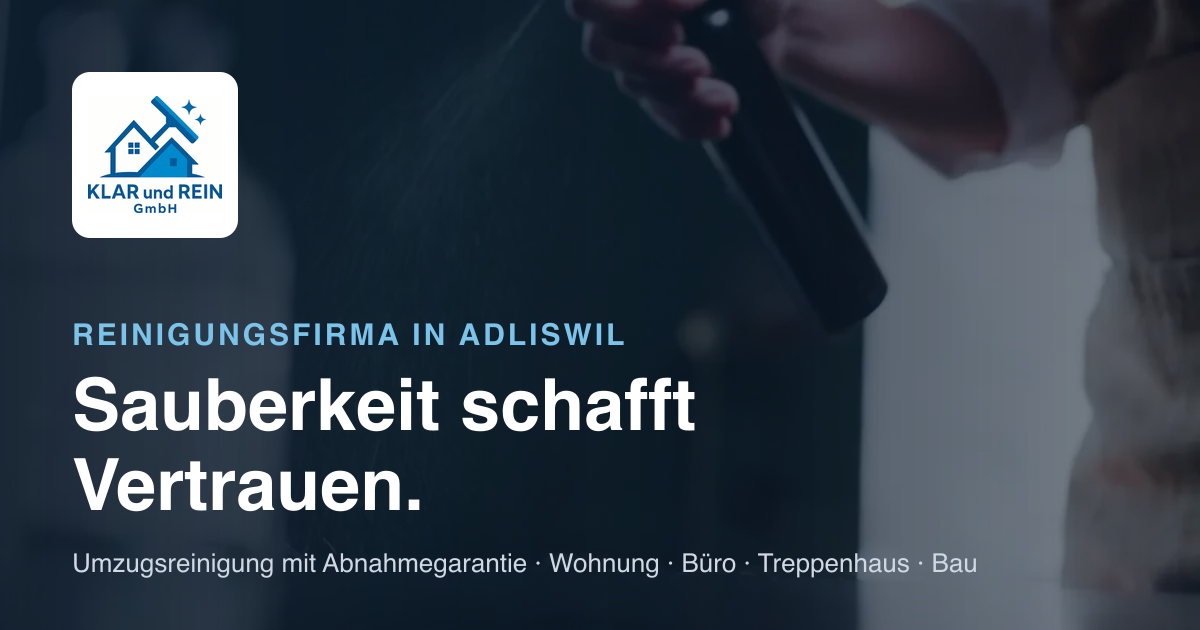
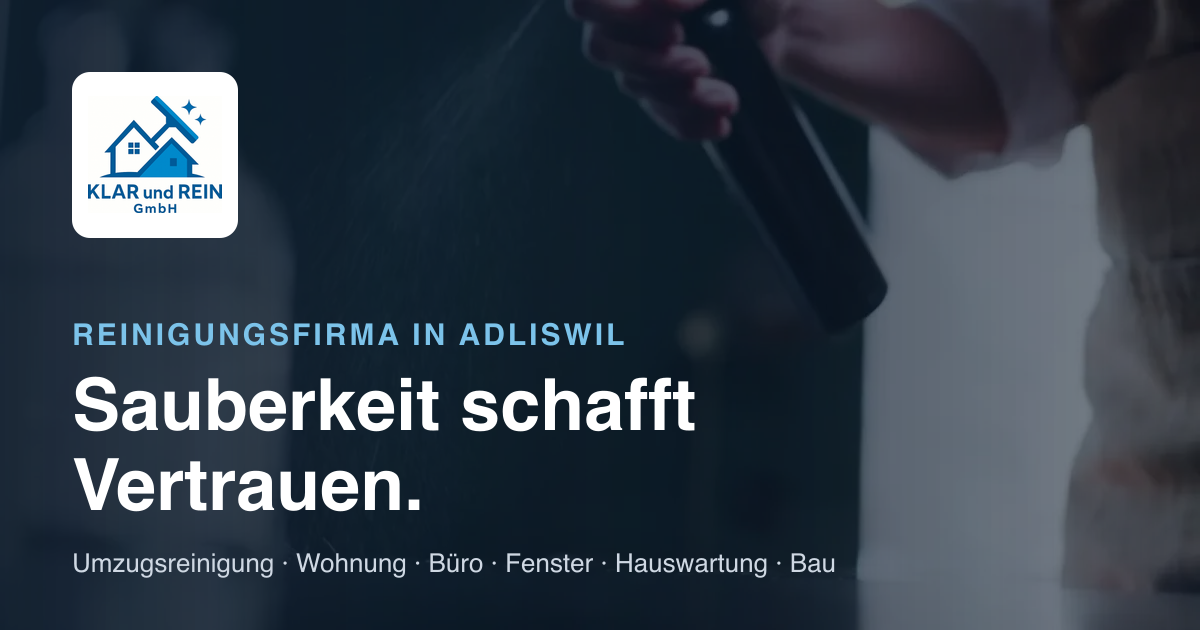
Esmas Antworten: Abnahmegarantie auf Wunsch, Leistungen nach Wahl, Impressum
- Abnahmegarantie überall als «auf Wunsch» (dabei bei der Wohnungsabgabe,
  Nachreinigung vor Ort) – Texte, FAQ, Badges, Meta, Schema, llms.txt, OG-Bild
- Leistungsseiten: «… – Leistungen nach Wahl» + «Weitere Leistungen nach
  Absprache möglich …» (nach Esmas Vorschlag)
- Impressum: Arxhend Hoxha, Geschäftsführer und Inhaber
- Kennzahlen 120+/15 entfernt, ersetzt durch Gründung, Anzahl Leistungen,
  Erreichbarkeit
- Aussage «Reinigungsmittel bringen wir mit» entfernt (je nach Kunde),
  Versprechen «Flexibel nach Absprache»
- README: geklärte Punkte abgehakt

Changed region(s): [[0.2158, 0.8746, 0.8325, 0.9349]]

diff --git a/src/data/site.ts b/src/data/site.ts
@@ -11,7 +11,7 @@ export const company = {
   register: 'Handelsregisteramt des Kantons Zürich',
   founded: 2025,
   // TODO: Name der Geschäftsführung fürs Impressum (solange null, wird die Zeile ausgeblendet)
-  manager: null as string | null,
+  manager: 'Arxhend Hoxha' as string | null,
   email: 'info@klarundrein.ch',
   phone: '076 561 17 79',
   // TODO: bestätigen, dass die Nummer auf WhatsApp erreichbar ist
@@ -81,7 +81,6 @@ export type Service = {
   h1: string
   lead: string
   intro: string[]
-  includesTitle: string
   includes: string[]
   idealFor: string[]
   faqs: Faq[]
@@ -92,21 +91,20 @@ export const services: Service[] = [
     slug: 'umzugsreinigung-adliswil',
     name: 'Umzugsreinigung',
     cardTitle: 'Umzugsreinigung',
-    teaser: 'Endreinigung mit Abnahmegarantie',
+    teaser: 'Endreinigung für die Wohnungsabgabe',
     icon: 'umzug',
-    short: 'Für eine ordentliche und problemlose Wohnungsübergabe. Sorgfältige Reinigung mit Abnahmegarantie.',
+    short: 'Für eine ordentliche und problemlose Wohnungsübergabe. Sorgfältige Reinigung – auf Wunsch mit Abnahmegarantie.',
     image: 'umzug',
     imageAlt: 'Frau packt beim Umzug Kartons in einer hellen Wohnung',
-    metaTitle: 'Umzugsreinigung Adliswil mit Abnahmegarantie | Klar und Rein',
+    metaTitle: 'Umzugsreinigung Adliswil – Abnahmegarantie auf Wunsch | Klar und Rein',
     metaDescription:
-      'Umzugs- und Endreinigung in Adliswil, Langnau, Kilchberg, Thalwil und Zürich – gründlich und mit Abnahmegarantie. Jetzt kostenlose Offerte anfragen.',
-    h1: 'Umzugsreinigung in Adliswil – mit Abnahmegarantie',
-    lead: 'Sie ziehen um, wir kümmern uns um die Endreinigung. So geben Sie Ihre Wohnung ohne Stress und ohne Nachreinigung an die Verwaltung zurück.',
+      'Umzugs- und Endreinigung in Adliswil, Langnau, Kilchberg, Thalwil und Zürich – gründlich, auf Wunsch mit Abnahmegarantie. Jetzt kostenlose Offerte anfragen.',
+    h1: 'Umzugsreinigung in Adliswil – Abnahmegarantie auf Wunsch',
+    lead: 'Sie ziehen um, wir kümmern uns um die Endreinigung. So geben Sie Ihre Wohnung ohne Stress an die Verwaltung zurück.',
     intro: [
       'Bei der Wohnungsabgabe schaut die Verwaltung genau hin: Backofen, Dampfabzug, Fensterfalze, Storen, Kalk im Bad. Genau dort setzen wir an. Wir reinigen Ihre Wohnung oder Ihr Haus nach der in der Schweiz üblichen Abgabe-Checkliste.',
-      'Mit unserer Abnahmegarantie sind Sie auf der sicheren Seite: Beanstandet die Verwaltung bei der Übergabe etwas an der Reinigung, reinigen wir kostenlos nach.',
+      'Auf Wunsch bieten wir eine Abnahmegarantie: Wir sind bei der Wohnungsabgabe dabei und reinigen direkt vor Ort nach, falls die Verwaltung etwas beanstandet.',
     ],
-    includesTitle: 'Das ist in der Umzugsreinigung inbegriffen',
     includes: [
       'Küche komplett: Backofen, Bleche, Kochfeld, Dampfabzug inkl. Filter, Kühlschrank, Schränke innen und aussen',
       'Bad und WC: Lavabo, Dusche, Badewanne, WC, Armaturen und Plättli – inklusive Entkalken',
@@ -125,7 +123,7 @@ export const services: Service[] = [
       },
       {
         q: 'Was bedeutet Abnahmegarantie?',
-        a: 'Beanstandet die Verwaltung bei der Wohnungsabgabe etwas an der Reinigung, reinigen wir die bemängelten Stellen kostenlos nach – bis die Wohnung abgenommen ist.',
+        a: 'Auf Wunsch sind wir bei der Wohnungsabgabe mit der Verwaltung vor Ort. Beanstandet sie etwas an der Reinigung, reinigen wir die Stellen direkt nach – bis die Wohnung abgenommen ist. Ob Sie die Abnahmegarantie möchten, halten wir in der Offerte fest.',
       },
       {
         q: 'Muss ich bei der Wohnungsabgabe dabei sein?',
@@ -155,7 +153,6 @@ export const services: Service[] = [
       'Ob wöchentlich, alle zwei Wochen oder einmalig vor einem besonderen Anlass: Wir passen die Wohnungsreinigung Ihrem Alltag an. Sie sagen uns, worauf es Ihnen ankommt, wir kümmern uns darum.',
       'Für Wohnungen, die eine Extraportion Aufmerksamkeit brauchen – etwa nach dem Winter, nach einer längeren Abwesenheit oder vor einem Einzug – bieten wir eine Tiefenreinigung an, bei der wir auch die Stellen reinigen, die im Alltag liegen bleiben.',
     ],
-    includesTitle: 'Das gehört zur Wohnungsreinigung',
     includes: [
       'Staubsaugen und feucht Aufnehmen aller Böden',
       'Küche: Arbeitsflächen, Kochfeld, Fronten, Spüle und Geräte aussen',
@@ -198,7 +195,6 @@ export const services: Service[] = [
       'Wir übernehmen die Unterhaltsreinigung von Büros, Praxen, Ateliers und kleineren Gewerberäumen in Adliswil und im ganzen Kanton Zürich. Den Umfang und die Intervalle legen wir gemeinsam mit Ihnen fest.',
       'Auf Wunsch reinigen wir früh morgens, abends oder am Wochenende – so läuft Ihr Betrieb ungestört weiter. Sie haben eine feste Ansprechperson und klare Absprachen.',
     ],
-    includesTitle: 'Das gehört zur Büroreinigung',
     includes: [
       'Arbeitsplätze, Tische und Ablagen',
       'Böden saugen und feucht reinigen',
@@ -241,7 +237,6 @@ export const services: Service[] = [
       'Saubere Fenster machen jeden Raum heller. Wir reinigen Glasflächen streifenfrei und vergessen dabei auch Rahmen, Falze und Simse nicht – dort, wo sich Staub und Schmutz am liebsten sammeln.',
       'Ob einmalig im Frühling, vor einem Anlass oder regelmässig im Abo: Wir reinigen Fenster in Wohnungen, Häusern, Büros und Ladenlokalen in Adliswil und im ganzen Kanton Zürich.',
     ],
-    includesTitle: 'Das gehört zur Fensterreinigung',
     includes: [
       'Glasflächen innen und aussen streifenfrei',
       'Fensterrahmen, Falze und Dichtungen',
@@ -284,7 +279,6 @@ export const services: Service[] = [
       'Bei der Unterhaltsreinigung legen wir gemeinsam fest, was wie oft gereinigt wird – täglich, wöchentlich oder in einem anderen Rhythmus. So bleiben Büros, Praxen, Geschäfte und Gemeinschaftsflächen dauerhaft gepflegt.',
       'Sie haben eine feste Ansprechperson, klare Absprachen und auf Wunsch Reinigungszeiten ausserhalb Ihrer Öffnungs- oder Bürozeiten.',
     ],
-    includesTitle: 'Das gehört zur Unterhaltsreinigung',
     includes: [
       'Individueller Reinigungsplan mit festen Intervallen',
       'Böden saugen und feucht reinigen',
@@ -323,7 +317,6 @@ export const services: Service[] = [
       'Für Verwaltungen, Eigentümergemeinschaften und private Vermieter übernehmen wir die regelmässige Reinigung von Treppenhäusern und Allgemeinflächen in Adliswil und Umgebung.',
       'Sie bestimmen das Intervall – wöchentlich, alle zwei Wochen oder monatlich. Wir sorgen dafür, dass sich Mieterinnen, Mieter und Besuch wohlfühlen.',
     ],
-    includesTitle: 'Das gehört zur Treppenhausreinigung',
     includes: [
       'Treppen und Podeste saugen und feucht reinigen',
       'Geländer, Handläufe und Fenstersimse',
@@ -362,7 +355,6 @@ export const services: Service[] = [
       'Für Verwaltungen, Eigentümergemeinschaften und private Vermieter übernehmen wir die Hauswartung von Mehrfamilienhäusern und Geschäftsliegenschaften in Adliswil und Umgebung.',
       'Den Umfang stellen wir individuell zusammen – von der regelmässigen Treppenhausreinigung über die Umgebungspflege bis zum Winterdienst. So bleibt Ihre Liegenschaft das ganze Jahr gepflegt.',
     ],
-    includesTitle: 'Das kann zur Hauswartung gehören',
     includes: [
       'Reinigung von Treppenhaus, Lift, Keller und Waschküche',
       'Umgebungspflege: Rasen, Hecken, Laub und Wege',
@@ -401,7 +393,6 @@ export const services: Service[] = [
       'Ob Neubau, Umbau, Renovation oder neue Küche: Wir reinigen nach den Handwerkern, damit Sie oder Ihre Mieterschaft direkt einziehen können.',
       'Wir arbeiten mit Bauherrschaften, Handwerksbetrieben und Privatpersonen zusammen und stimmen den Termin auf den Bauablauf ab.',
     ],
-    includesTitle: 'Das gehört zur Baureinigung',
     includes: [
       'Grobreinigung: Bauschutt-Reste, Staub und Verpackungsmaterial entfernen',
       'Feinreinigung aller Oberflächen, Schränke und Einbauten',
@@ -440,7 +431,6 @@ export const services: Service[] = [
       'Mit der Zeit setzen sich auf Terrassen, Wegen und Einfahrten Moos, Algen und Schmutz fest. Das sieht nicht nur unschön aus, sondern macht Flächen auch rutschig.',
       'Wir reinigen mit Hochdruck und Flächenreinigern und passen Druck und Verfahren an das Material an – ob Stein, Beton, Platten oder Holz.',
     ],
-    includesTitle: 'Das reinigen wir mit Hochdruck',
     includes: [
       'Terrassen, Sitzplätze und Balkone',
       'Plattenwege, Einfahrten und Vorplätze',
@@ -479,7 +469,6 @@ export const services: Service[] = [
       'Wetter, Verkehr und Feuchtigkeit hinterlassen Spuren: Grauschleier, Algen und Grünbelag lassen Fassaden schnell alt aussehen.',
       'Vor der Reinigung prüfen wir die Fassade und wählen ein schonendes Verfahren – für Putz, Klinker, Holz, Metall oder Glas. So wird das Gebäude sauber, ohne die Oberfläche zu belasten.',
     ],
-    includesTitle: 'Das gehört zur Fassadenreinigung',
     includes: [
       'Besichtigung und Prüfung der Fassade',
       'Entfernen von Algen, Grünbelag und Grauschleier',
@@ -517,11 +506,7 @@ export const generalFaqs: Faq[] = [
   },
   {
     q: 'Was bedeutet Abnahmegarantie bei der Umzugsreinigung?',
-    a: 'Beanstandet die Verwaltung bei der Wohnungsabgabe etwas an der Reinigung, reinigen wir kostenlos nach, bis die Wohnung abgenommen ist.',
-  },
-  {
-    q: 'Bringen Sie Reinigungsmittel und Geräte mit?',
-    a: 'Ja, wir bringen alle nötigen Reinigungsmittel, Geräte und Materialien mit. Sie müssen nichts vorbereiten.',
+    a: 'Die Abnahmegarantie gibt es auf Wunsch: Wir sind bei der Wohnungsabgabe dabei und reinigen direkt nach, falls die Verwaltung etwas beanstandet – bis die Wohnung abgenommen ist.',
   },
   {
     q: 'Wie komme ich zu einer Offerte?',
@@ -529,7 +514,7 @@ export const generalFaqs: Faq[] = [
   },
   {
     q: 'Welche Reinigungen bietet Klar und Rein an?',
-    a: 'Umzugsreinigung mit Abnahmegarantie, Wohnungs- und Tiefenreinigung, Büroreinigung, Fensterreinigung, Unterhaltsreinigung, Treppenhausreinigung, Hauswartung, Baureinigung, Hochdruckreinigung und Fassadenreinigung – für Privat- und Geschäftskunden in Adliswil und im ganzen Kanton Zürich.',
+    a: 'Umzugsreinigung (auf Wunsch mit Abnahmegarantie), Wohnungs- und Tiefenreinigung, Büroreinigung, Fensterreinigung, Unterhaltsreinigung, Treppenhausreinigung, Hauswartung, Baureinigung, Hochdruckreinigung und Fassadenreinigung – für Privat- und Geschäftskunden in Adliswil und im ganzen Kanton Zürich.',
   },
   {
     q: 'Reinigen Sie auch regelmässig für Firmen und Verwaltungen?',
@@ -556,25 +541,19 @@ export const heroCards = [
   },
 ]
 
-/** Kennzahlen der bisherigen Website. TODO: Bedeutung von Esma bestätigen lassen */
-export const stats = [
-  { value: '120+', label: 'Qualitätsdienstleistungen' },
-  { value: '15', label: 'Von vielen vertraut' },
-]
-
 /** Versprechen (ersetzt die Vorlagen-Bewertungen der alten Seite, bis echte Google-Bewertungen da sind) */
 export const promises = [
-  { title: 'Abnahmegarantie', text: 'Bei der Umzugsreinigung reinigen wir kostenlos nach, falls die Verwaltung etwas beanstandet.' },
+  { title: 'Abnahmegarantie auf Wunsch', text: 'Bei der Umzugsreinigung sind wir auf Wunsch bei der Übergabe dabei und reinigen direkt nach, falls etwas beanstandet wird.' },
   { title: 'Pünktlich & zuverlässig', text: 'Wir kommen zum vereinbarten Termin und halten uns an klare Absprachen.' },
-  { title: 'Alles inklusive', text: 'Reinigungsmittel, Geräte und Material bringen wir mit. Sie müssen nichts vorbereiten.' },
+  { title: 'Flexibel nach Absprache', text: 'Umfang, Termin und Reinigungsmittel richten sich nach Ihnen – mit unserem Material oder Ihrem eigenen.' },
   { title: 'Kostenlose Offerte', text: 'Sie wissen vorher genau, was die Reinigung kostet – transparent und unverbindlich.' },
 ]
 
 export const steps = [
   { title: 'Anfrage', text: 'Formular, Anruf oder WhatsApp – sagen Sie uns kurz, was gereinigt werden soll.' },
   { title: 'Offerte', text: 'Nach kurzer Besichtigung oder anhand von Fotos erhalten Sie eine klare, kostenlose Offerte.' },
-  { title: 'Reinigung', text: 'Wir kommen pünktlich zum vereinbarten Termin und bringen alles Nötige mit.' },
-  { title: 'Abnahme', text: 'Sie prüfen das Ergebnis. Bei der Umzugsreinigung gilt unsere Abnahmegarantie.' },
+  { title: 'Reinigung', text: 'Wir kommen pünktlich zum vereinbarten Termin und reinigen genau nach Ihren Wünschen.' },
+  { title: 'Abnahme', text: 'Sie prüfen das Ergebnis. Bei der Umzugsreinigung sind wir auf Wunsch bei der Abnahme dabei.' },
 ]
 
 /** Weiche Trennstellen («…reinigung», «…wartung», «Abnahmegarantie»), damit lange Wörter auf kleinen Kacheln sauber umbrechen */

diff --git a/index.html b/index.html
@@ -3,10 +3,10 @@
   <head>
     <meta charset="UTF-8" />
     <meta name="viewport" content="width=device-width, initial-scale=1.0, viewport-fit=cover" />
-    <title>Reinigungsfirma Adliswil – Umzugsreinigung mit Abnahmegarantie | Klar und Rein</title>
+    <title>Reinigungsfirma Adliswil – Umzugs-, Wohnungs- & Büroreinigung | Klar und Rein</title>
     <meta
       name="description"
-      content="Reinigungsfirma in Adliswil: Umzugsreinigung mit Abnahmegarantie, Wohnungs-, Büro-, Treppenhaus- und Baureinigung. Kostenlose Offerte."
+      content="Reinigungsfirma in Adliswil: Umzugsreinigung (Abnahmegarantie auf Wunsch), Wohnungs-, Büro-, Fenster- und Treppenhausreinigung, Hauswartung und mehr. Kostenlose Offerte."
     />
     <script>document.documentElement.classList.add('js')</script>
     <meta name="theme-color" content="#0d1b2b" />
@@ -23,7 +23,7 @@
     <meta property="og:title" content="Klar und Rein – Reinigungsfirma in Adliswil" />
     <meta
       property="og:description"
-      content="Umzugsreinigung mit Abnahmegarantie, Wohnungs-, Büro-, Treppenhaus- und Baureinigung in Adliswil und Umgebung."
+      content="Umzugsreinigung (Abnahmegarantie auf Wunsch), Wohnungs-, Büro-, Fenster- und Treppenhausreinigung, Hauswartung und mehr in Adliswil und Umgebung."
     />
     <meta property="og:url" content="https://klarundrein.ch/" />
     <meta property="og:image" content="https://klarundrein.ch/og-image.png" />
@@ -42,7 +42,7 @@
         "logo": "https://klarundrein.ch/logo-512.png",
         "image": ["https://klarundrein.ch/og-image.png", "https://klarundrein.ch/images/hero.webp"],
         "slogan": "Sauberkeit schafft Vertrauen.",
-        "description": "Reinigungsfirma aus Adliswil: Umzugsreinigung mit Abnahmegarantie, Wohnungs-, Büro-, Fenster-, Unterhalts-, Treppenhaus-, Bau-, Hochdruck- und Fassadenreinigung sowie Hauswartung im Kanton Zürich.",
+        "description": "Reinigungsfirma aus Adliswil: Umzugsreinigung (Abnahmegarantie auf Wunsch), Wohnungs-, Büro-, Fenster-, Unterhalts-, Treppenhaus-, Bau-, Hochdruck- und Fassadenreinigung sowie Hauswartung im Kanton Zürich.",
         "telephone": "+41765611779",
         "email": "info@klarundrein.ch",
         "foundingDate": "2025",
@@ -79,7 +79,7 @@
           "@type": "OfferCatalog",
           "name": "Reinigungsdienstleistungen",
           "itemListElement": [
-            { "@type": "Offer", "itemOffered": { "@type": "Service", "name": "Umzugsreinigung mit Abnahmegarantie", "url": "https://klarundrein.ch/umzugsreinigung-adliswil" } },
+            { "@type": "Offer", "itemOffered": { "@type": "Service", "name": "Umzugsreinigung", "url": "https://klarundrein.ch/umzugsreinigung-adliswil" } },
             { "@type": "Offer", "itemOffered": { "@type": "Service", "name": "Wohnungsreinigung", "url": "https://klarundrein.ch/wohnungsreinigung-adliswil" } },
             { "@type": "Offer", "itemOffered": { "@type": "Service", "name": "Büroreinigung", "url": "https://klarundrein.ch/bueroreinigung-adliswil" } },
             { "@type": "Offer", "itemOffered": { "@type": "Service", "name": "Fensterreinigung", "url": "https://klarundrein.ch/fensterreinigung-adliswil" } },

diff --git a/src/pages/Home.tsx b/src/pages/Home.tsx
@@ -11,7 +11,7 @@ import ServiceTile from '../components/ServiceTile'
 import ServiceGrid from '../components/ServiceGrid'
 import Logo from '../components/Logo'
 import { Eyebrow, Sparkle } from '../components/Icons'
-import { company, generalFaqs, heroCards, phoneHref, promises, services, stats } from '../data/site'
+import { company, generalFaqs, heroCards, phoneHref, promises, services } from '../data/site'
 import { useSeo } from '../seo'
 
 const bySlug = (slug: string) => services.find((s) => s.slug === slug)!
@@ -66,7 +66,7 @@ export default function Home() {
               </a>
             </div>
             <ul className="mt-9 flex animate-fade-up flex-wrap gap-x-6 gap-y-2 text-[0.95rem] text-white/80 [animation-delay:320ms]">
-              {['Abnahmegarantie', 'Offerte kostenlos', 'Lokal in Adliswil'].map((t) => (
+              {['Abnahmegarantie auf Wunsch', 'Offerte kostenlos', 'Lokal in Adliswil'].map((t) => (
                 <li key={t} className="flex items-center gap-2">
                   <BadgeCheck className="size-5 text-brand-300" aria-hidden /> {t}
                 </li>
@@ -124,9 +124,9 @@ export default function Home() {
             <div className="absolute top-8 right-3 flex items-center gap-2.5 rounded-2xl bg-brand-500 px-4 py-3 text-white shadow-[0_20px_40px_-18px_rgb(0_137_204/0.9)] sm:-right-6">
               <ShieldCheck className="size-6" aria-hidden />
               <span className="text-sm leading-tight font-semibold">
-                Abnahme-
+                Abnahmegarantie
                 <br />
-                garantie
+                <span className="font-normal text-white/85">auf Wunsch</span>
               </span>
             </div>
           </Reveal>
@@ -158,7 +158,11 @@ export default function Home() {
               ))}
             </ul>
             <dl className="mt-10 grid grid-cols-3 divide-x divide-cloud-200 rounded-3xl bg-cloud-50 py-6 ring-1 ring-cloud-200">
-              {[...stats, { value: String(company.founded), label: 'Gegründet in Adliswil' }].map((s) => (
+              {[
+                { value: String(company.founded), label: 'Gegründet in Adliswil' },
+                { value: String(services.length), label: 'Reinigungsleistungen' },
+                { value: 'Mo–Fr', label: '07:30–18:00 erreichbar' },
+              ].map((s) => (
                 <div key={s.label} className="flex flex-col-reverse px-4 text-center sm:px-6">
                   <dt className="mt-1 text-xs leading-snug text-ink-500 sm:text-sm">{s.label}</dt>
                   <dd className="text-3xl font-semibold text-brand-500 sm:text-4xl">{s.value}</dd>
@@ -202,7 +206,7 @@ export default function Home() {
                 imageAlt={umzug.imageAlt}
                 title={umzug.cardTitle}
                 text={umzug.short}
-                badge="Mit Abnahmegarantie"
+                badge="Abnahmegarantie auf Wunsch"
                 large
                 className="min-h-[24rem]"
               />

diff --git a/src/pages/ServicePage.tsx b/src/pages/ServicePage.tsx
@@ -1,5 +1,5 @@
 import { Link } from 'react-router-dom'
-import { ArrowRight, BadgeCheck, Check, ChevronRight, Phone, ShieldCheck } from 'lucide-react'
+import { ArrowRight, BadgeCheck, Check, ChevronRight, Phone, Plus, ShieldCheck } from 'lucide-react'
 import Reveal from '../components/Reveal'
 import { FaqSection } from '../components/Faq'
 import Contact from '../components/Contact'
@@ -117,8 +117,8 @@ export default function ServicePage({ service: s }: { service: Service }) {
                   <ShieldCheck className="size-6" aria-hidden />
                 </span>
                 <p>
-                  <strong className="block text-lg font-semibold">Abnahmegarantie inklusive</strong>
-                  <span className="text-white/75">Bemängelt die Verwaltung etwas an der Reinigung, reinigen wir kostenlos nach.</span>
+                  <strong className="block text-lg font-semibold">Abnahmegarantie auf Wunsch</strong>
+                  <span className="text-white/75">Wir sind bei der Wohnungsabgabe dabei und reinigen direkt nach, falls die Verwaltung etwas beanstandet.</span>
                 </p>
               </div>
             )}
@@ -135,7 +135,7 @@ export default function ServicePage({ service: s }: { service: Service }) {
                 className="aspect-[16/9] w-full object-cover"
               />
               <div className="bg-cloud-50 p-7 sm:p-10">
-                <h2 className="text-2xl font-semibold text-navy-950">{soft(s.includesTitle)}</h2>
+                <h2 className="text-2xl font-semibold text-navy-950">{soft(s.name)} – Leistungen nach Wahl</h2>
                 <ul className="mt-6 grid gap-4">
                   {s.includes.map((i) => (
                     <li key={i} className="flex gap-3 leading-relaxed text-ink-700">
@@ -145,8 +145,14 @@ export default function ServicePage({ service: s }: { service: Service }) {
                       {i}
                     </li>
                   ))}
+                  <li className="flex gap-3 leading-relaxed font-medium text-ink-500">
+                    <span className="mt-0.5 grid size-6 shrink-0 place-items-center rounded-full bg-cloud-200 text-ink-700">
+                      <Plus className="size-3.5" strokeWidth={3} aria-hidden />
+                    </span>
+                    Weitere Leistungen nach Absprache möglich …
+                  </li>
                 </ul>
-                <p className="mt-7 border-t border-cloud-200 pt-5 text-sm text-ink-500">Den genauen Umfang halten wir in Ihrer Offerte fest.</p>
+                <p className="mt-7 border-t border-cloud-200 pt-5 text-sm text-ink-500">Sie wählen, was gereinigt wird – den genauen Umfang halten wir in Ihrer Offerte fest.</p>
               </div>
             </div>
           </Reveal>

diff --git a/src/components/Header.tsx b/src/components/Header.tsx
@@ -229,10 +229,10 @@ export default function Header() {
                 <img src={`/images/${featured.image}.webp`} alt="" width={800} height={600} loading="lazy" className="absolute inset-0 -z-20 size-full object-cover transition-transform duration-700 group-hover:scale-105" />
                 <span aria-hidden className="absolute inset-0 -z-10 bg-gradient-to-t from-navy-950/95 via-navy-950/50 to-transparent" />
                 <span className="mb-auto inline-flex w-fit items-center gap-1.5 rounded-full bg-brand-500 px-3 py-1 text-xs font-semibold">
-                  <ShieldCheck className="size-3.5" aria-hidden /> Abnahmegarantie
+                  <ShieldCheck className="size-3.5" aria-hidden /> Abnahmegarantie auf Wunsch
                 </span>
                 <span className="text-xl font-semibold">Umzugsreinigung ohne Stress</span>
-                <span className="mt-1 text-sm text-white/80">Bemängelt die Verwaltung etwas, reinigen wir kostenlos nach.</span>
+                <span className="mt-1 text-sm text-white/80">Auf Wunsch sind wir bei der Übergabe dabei und reinigen direkt nach.</span>
                 <span className="mt-4 inline-flex items-center gap-1.5 text-sm font-medium">
                   Mehr erfahren <ArrowUpRight className="size-4" aria-hidden />
                 </span>

diff --git a/src/seo.ts b/src/seo.ts
@@ -4,12 +4,12 @@ import { company, services } from './data/site'
 export type PageMeta = { title: string; description: string; noindex?: boolean }
 
 const HOME_DESCRIPTION =
-  'Reinigungsfirma in Adliswil: Umzugsreinigung mit Abnahmegarantie, Wohnungs-, Büro-, Treppenhaus- und Baureinigung in Adliswil, Langnau, Kilchberg, Thalwil und Zürich. Kostenlose Offerte.'
+  'Reinigungsfirma in Adliswil: Umzugsreinigung (Abnahmegarantie auf Wunsch), Wohnungs-, Büro-, Fenster- und Treppenhausreinigung, Hauswartung und mehr in Adliswil, Thalwil, Horgen und Zürich. Kostenlose Offerte.'
 
 /** Meta-Daten pro Route – wird im Browser (useSeo) und beim Prerendern (scripts/prerender.mjs) verwendet. */
 export const pages: Record<string, PageMeta> = {
   '/': {
-    title: 'Reinigungsfirma Adliswil – Umzugsreinigung mit Abnahmegarantie | Klar und Rein',
+    title: 'Reinigungsfirma Adliswil – Umzugs-, Wohnungs- & Büroreinigung | Klar und Rein',
     description: HOME_DESCRIPTION,
   },
   ...Object.fromEntries(

diff --git a/src/pages/Legal.tsx b/src/pages/Legal.tsx
@@ -48,7 +48,7 @@ export function Impressum() {
       {company.manager && (
         <div>
           <h2>Vertretungsberechtigte Person</h2>
-          <p>{company.manager}, Geschäftsführung</p>
+          <p>{company.manager}, Geschäftsführer und Inhaber</p>
         </div>
       )}
       <div>

diff --git a/src/components/Marquee.tsx b/src/components/Marquee.tsx
@@ -2,7 +2,7 @@ import { Sparkle } from './Icons'
 
 const items = [
   'Umzugsreinigung',
-  'Abnahmegarantie',
+  'Abnahmegarantie auf Wunsch',
   'Wohnungsreinigung',
   'Büroreinigung',
   'Fensterreinigung',

diff --git a/README.md b/README.md
@@ -33,13 +33,13 @@ Alle Inhalte (Firmendaten, Leistungen, FAQ, Einzugsgebiet) stehen zentral in `sr
 
 ## Offene Punkte (vom Kunden bestätigen lassen)
 
-- [ ] Name der Geschäftsführung fürs Impressum (`company.manager`)
-- [ ] Telefonnummer 076 561 17 79 auch auf WhatsApp erreichbar?
+- [x] Impressum: Arxhend Hoxha, Geschäftsführer und Inhaber
+- [x] 076 561 17 79 ist auch auf WhatsApp erreichbar
 - [ ] Echte Fotos (Team, Auto, Vorher/Nachher) – aktuell die Stockfotos der bisherigen Website
-- [ ] Kennzahlen «120+ Qualitätsdienstleistungen» und «15 Von vielen vertraut» (von der alten Seite übernommen): Bedeutung bestätigen oder ersetzen (`stats`)
-- [ ] Bedingungen der Abnahmegarantie bestätigen (Text: kostenlose Nachreinigung bei Beanstandung)
-- [ ] Leistungsumfang je Leistung prüfen (v. a. Umzugsreinigung: Fenster/Storen, Keller/Estrich)
-- [ ] Reinigungsmittel/Geräte werden mitgebracht? (FAQ)
+- [x] Kennzahlen «120+» und «15» der alten Seite entfernt (Esma kannte die Bedeutung nicht)
+- [x] Abnahmegarantie nur auf Wunsch: dabei bei der Wohnungsabgabe, Nachreinigung vor Ort (ob kostenlos, noch offen)
+- [x] Leistungen als «Leistungen nach Wahl» + «Weitere Leistungen nach Absprache möglich» (Wunsch von Esma)
+- [x] Reinigungsmittel: je nach Kunde – Aussage «bringen alles mit» entfernt
 - [x] Einzugsgebiet: an Esmas Google-Profil angeglichen (inkl. Wädenswil, Richterswil, Wollerau)
 - [x] Öffnungszeiten: Mo–Fr 07:30–18:00 (aus dem Google-Profil, `company.hours`, Schema)
 - [ ] Umfang der neuen Leistungen bestätigen (Fenster, Unterhalt, Hauswartung inkl. Winterdienst, Hochdruck, Fassade) – Texte sind Vorschläge; Fotos sind Unsplash-Platzhalter
